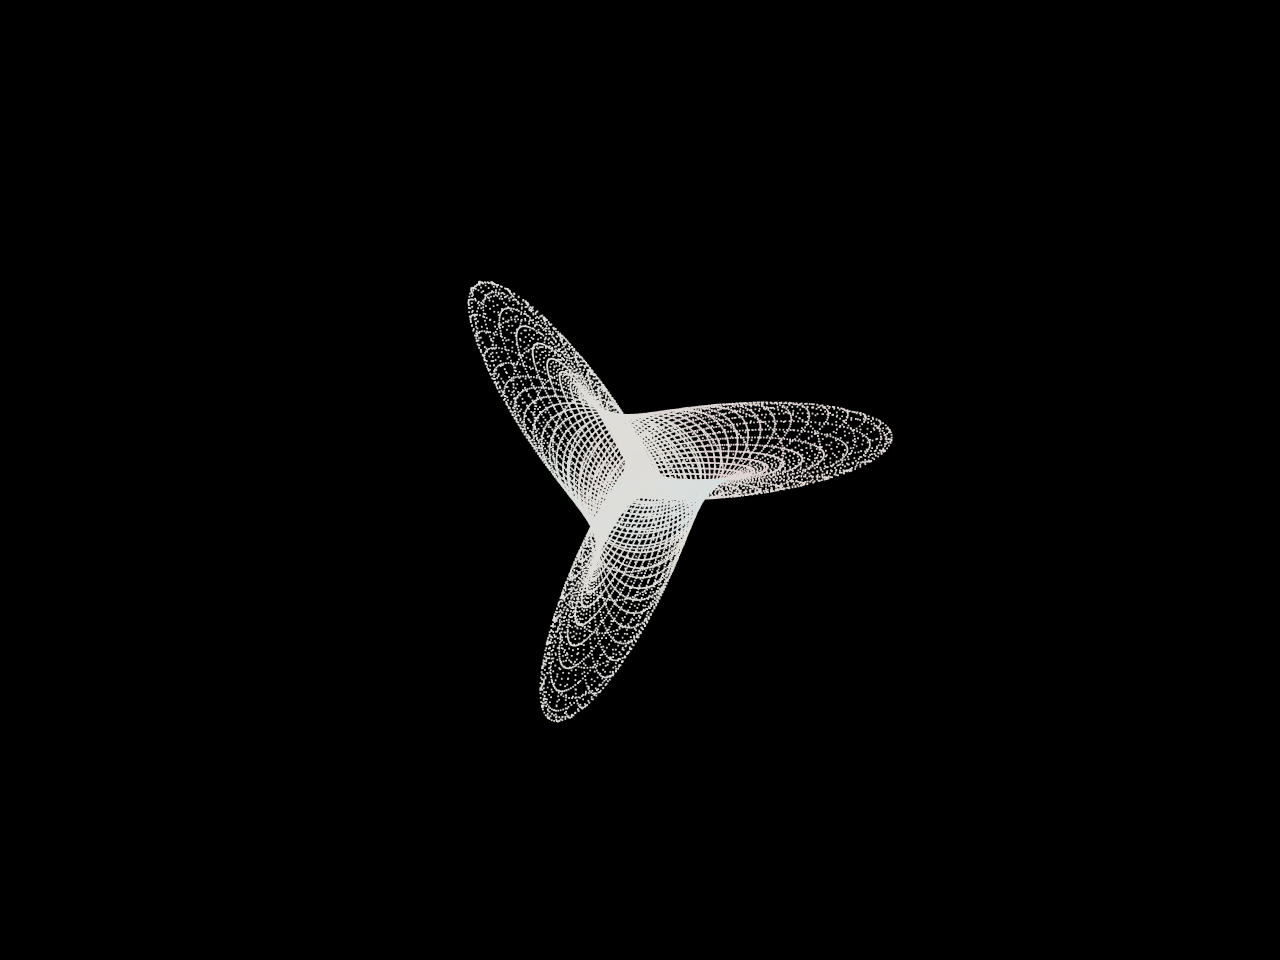
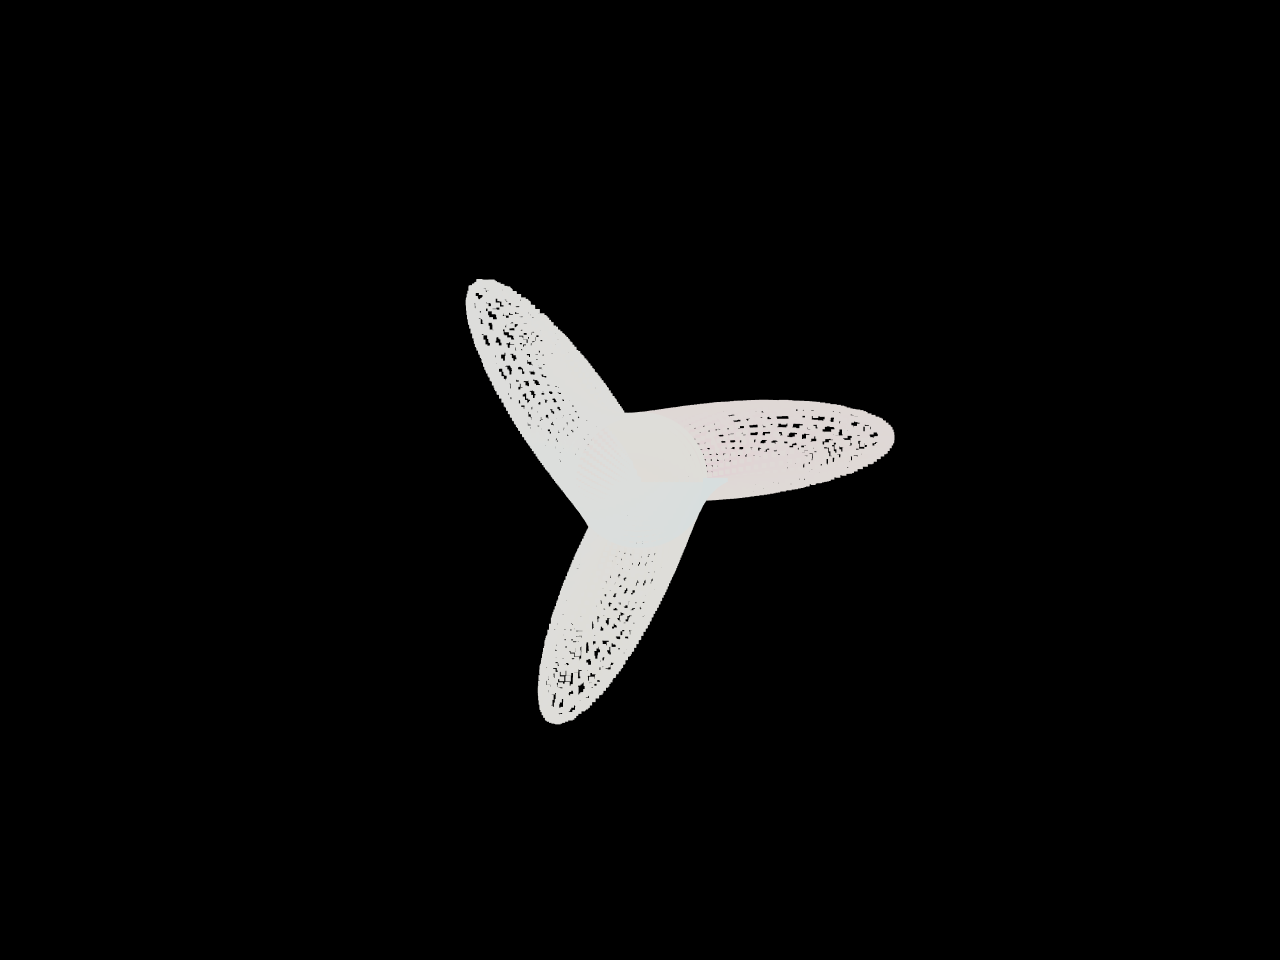
Boy isolines: world-space points so UV colors read.

Changed region(s): [[0.3438, 0.2812, 0.7188, 0.75]]

diff --git a/packages/frontend/src/pages/misc/boy_jury_isolines.tsx b/packages/frontend/src/pages/misc/boy_jury_isolines.tsx
@@ -47,7 +47,7 @@ const BoyJuryIsolines = () => {
 		<Base<TData>
 			dimension={EDimensions.THREE_D}
 			numParticles={cloud.count}
-			pointSize={1.8}
+			pointSize={0.035}
 			tick={tick}
 			cameraPosition={[0, 0, 4.2]}
 			autoRotate={!isScreenshotMode()}
